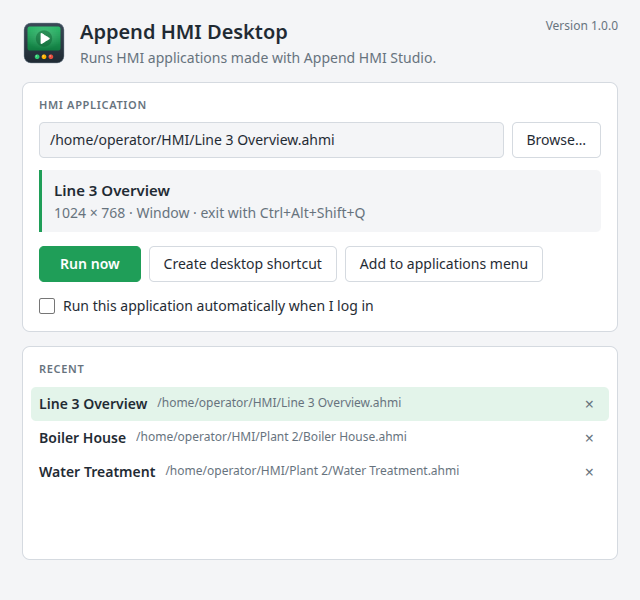
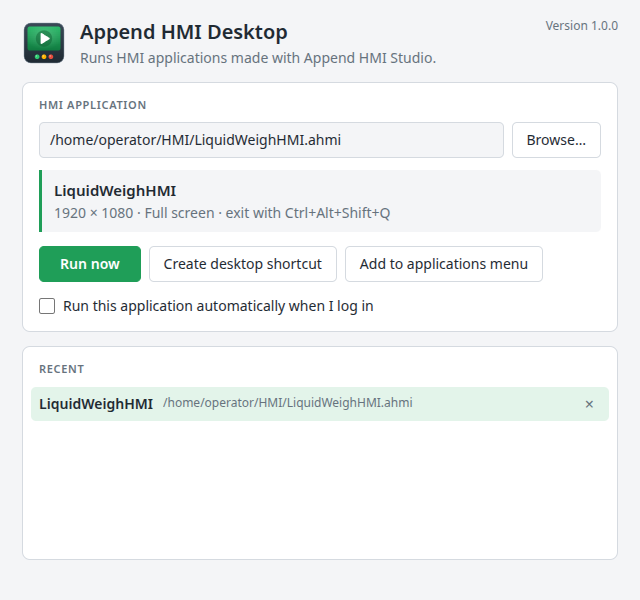
Screenshots show the LiquidWeighHMI example

diff --git a/README.md b/README.md
@@ -3,7 +3,7 @@ Append HMI Desktop
 
 **Append HMI Desktop** runs HMI applications (`.ahmi` projects) made with [Append HMI Studio](https://github.com/AppendAutomation/AppendHMIStudio) on operator PCs. It's the Studio's runtime without the editor: nothing can be edited, saved, exported or published, which makes it smaller and simpler to deploy.
 
-![The Append HMI Desktop launcher](doc/images/launcher.png)
+![The Append HMI Desktop launcher with the LiquidWeighHMI example selected](doc/images/launcher.png)
 
 - **Run from the command line:** `append-hmi-desktop project.ahmi` runs a project.
 - **Run from the launcher:** with no project, a window opens where you pick an `.ahmi` file, then:
